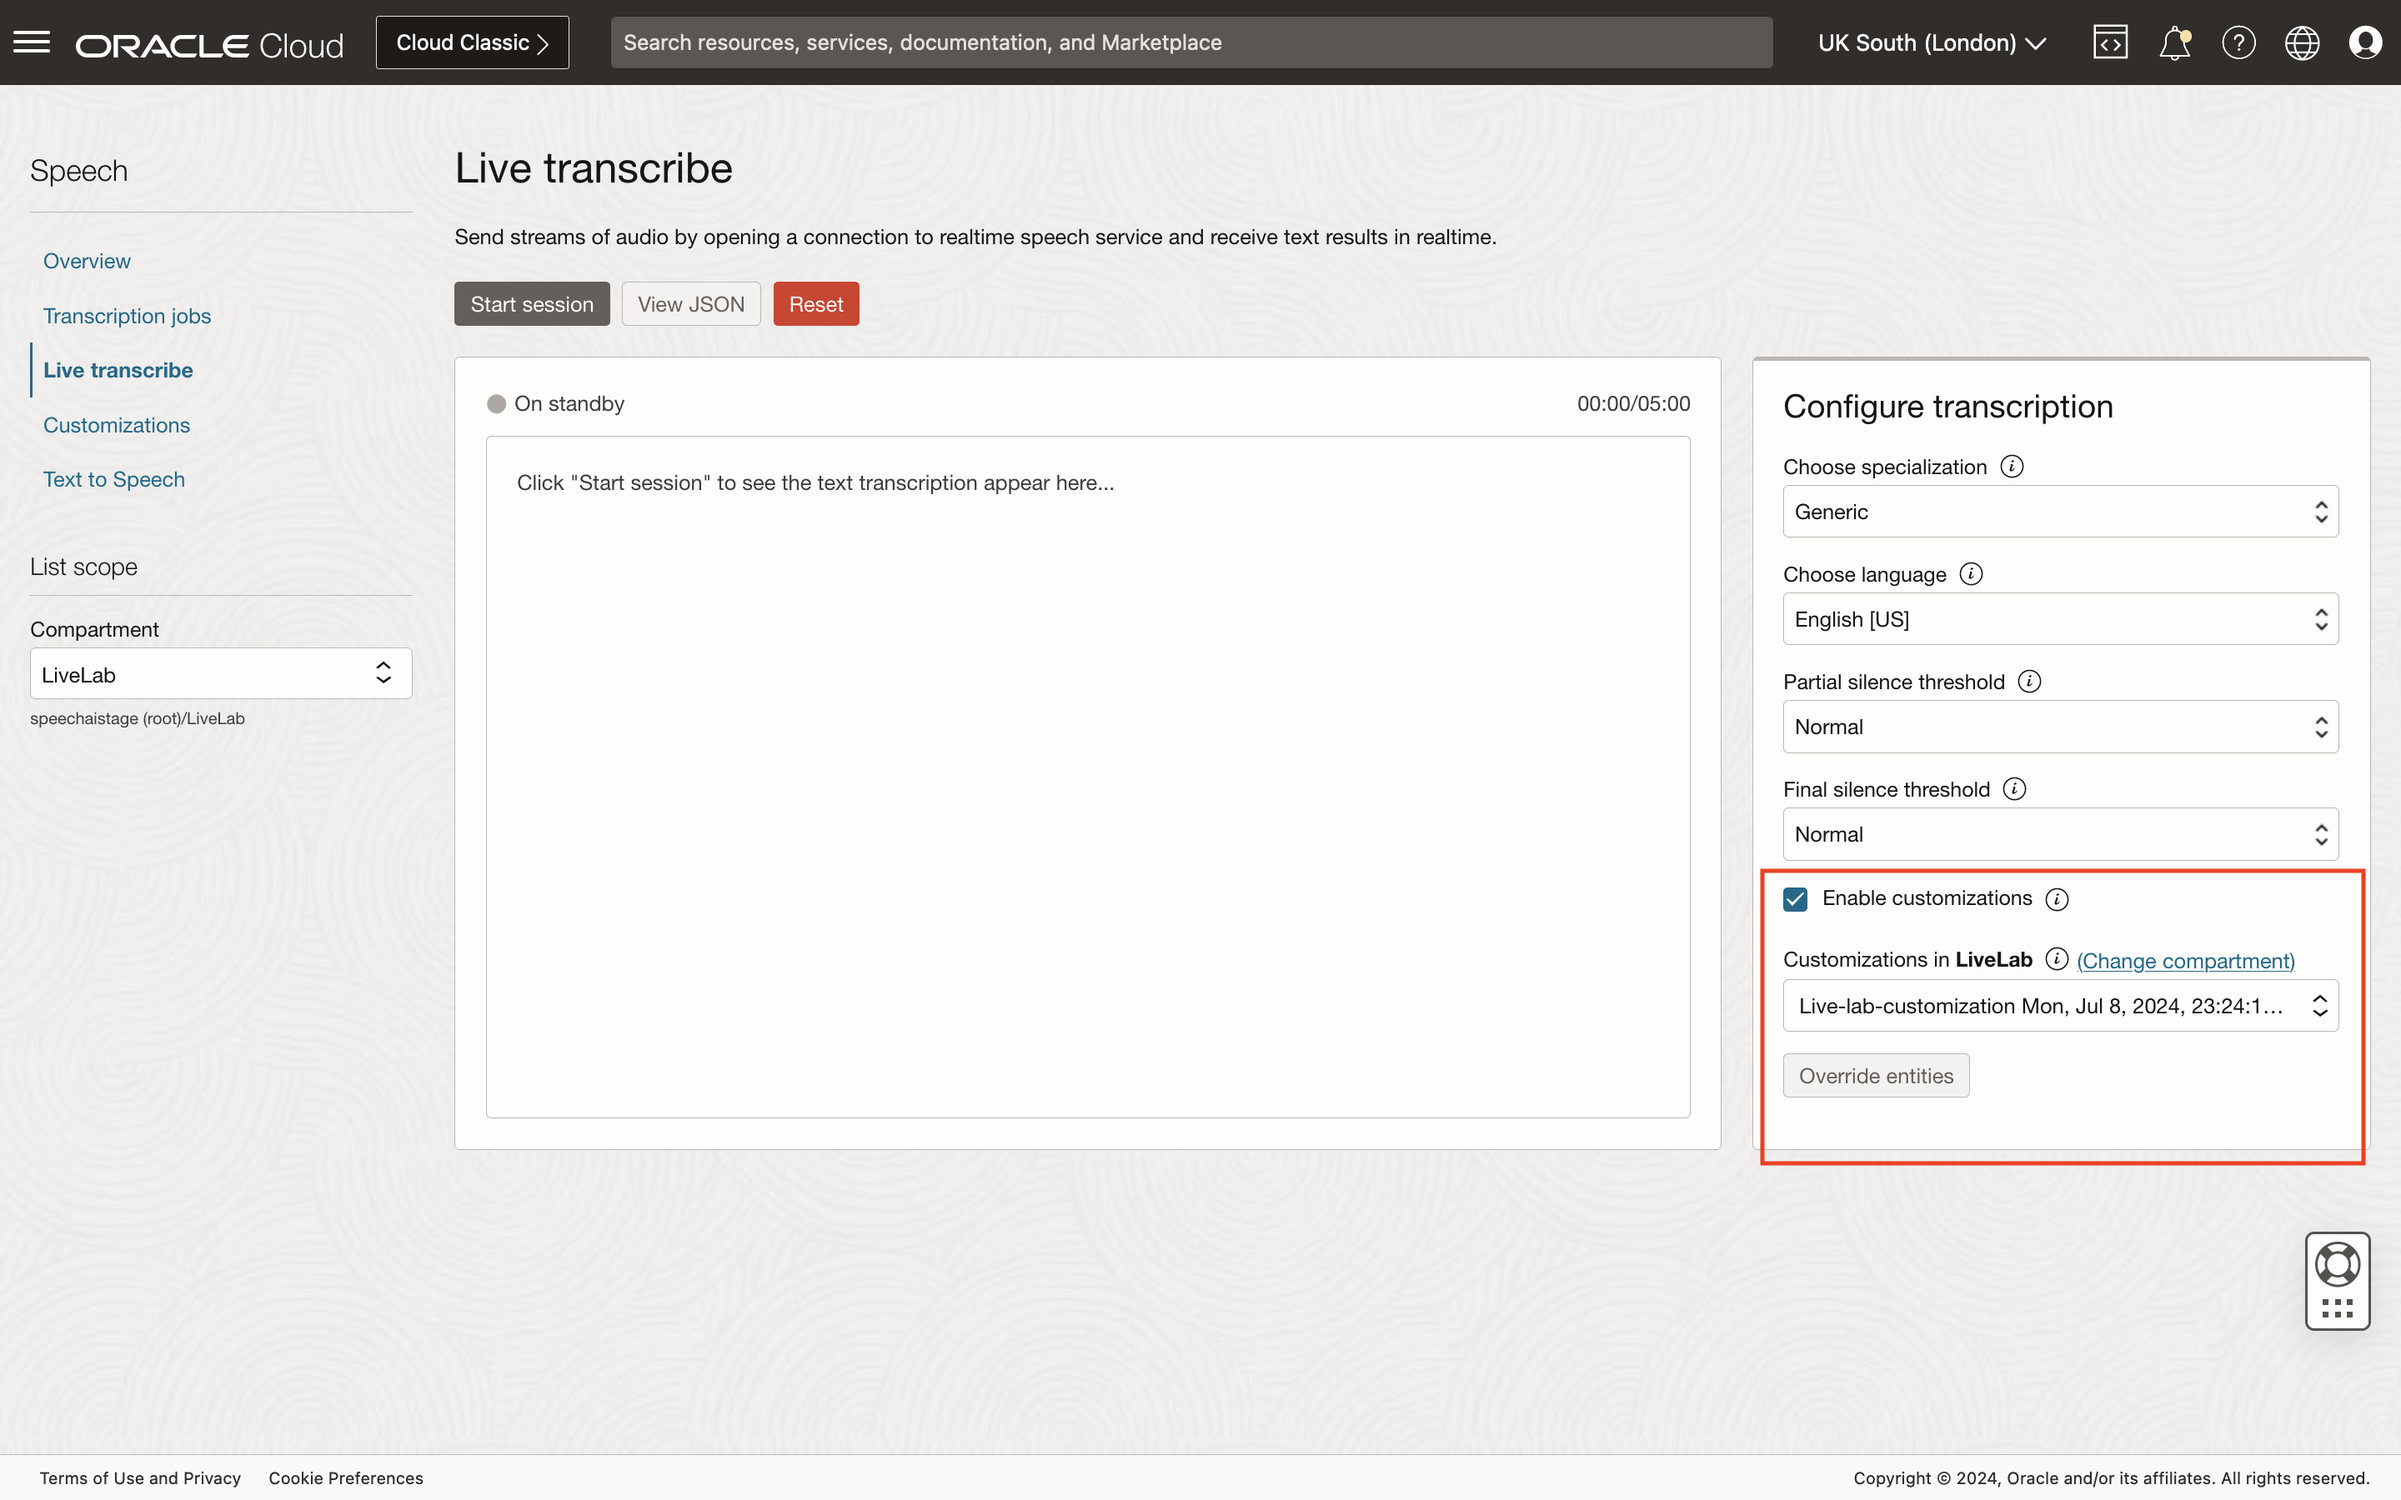
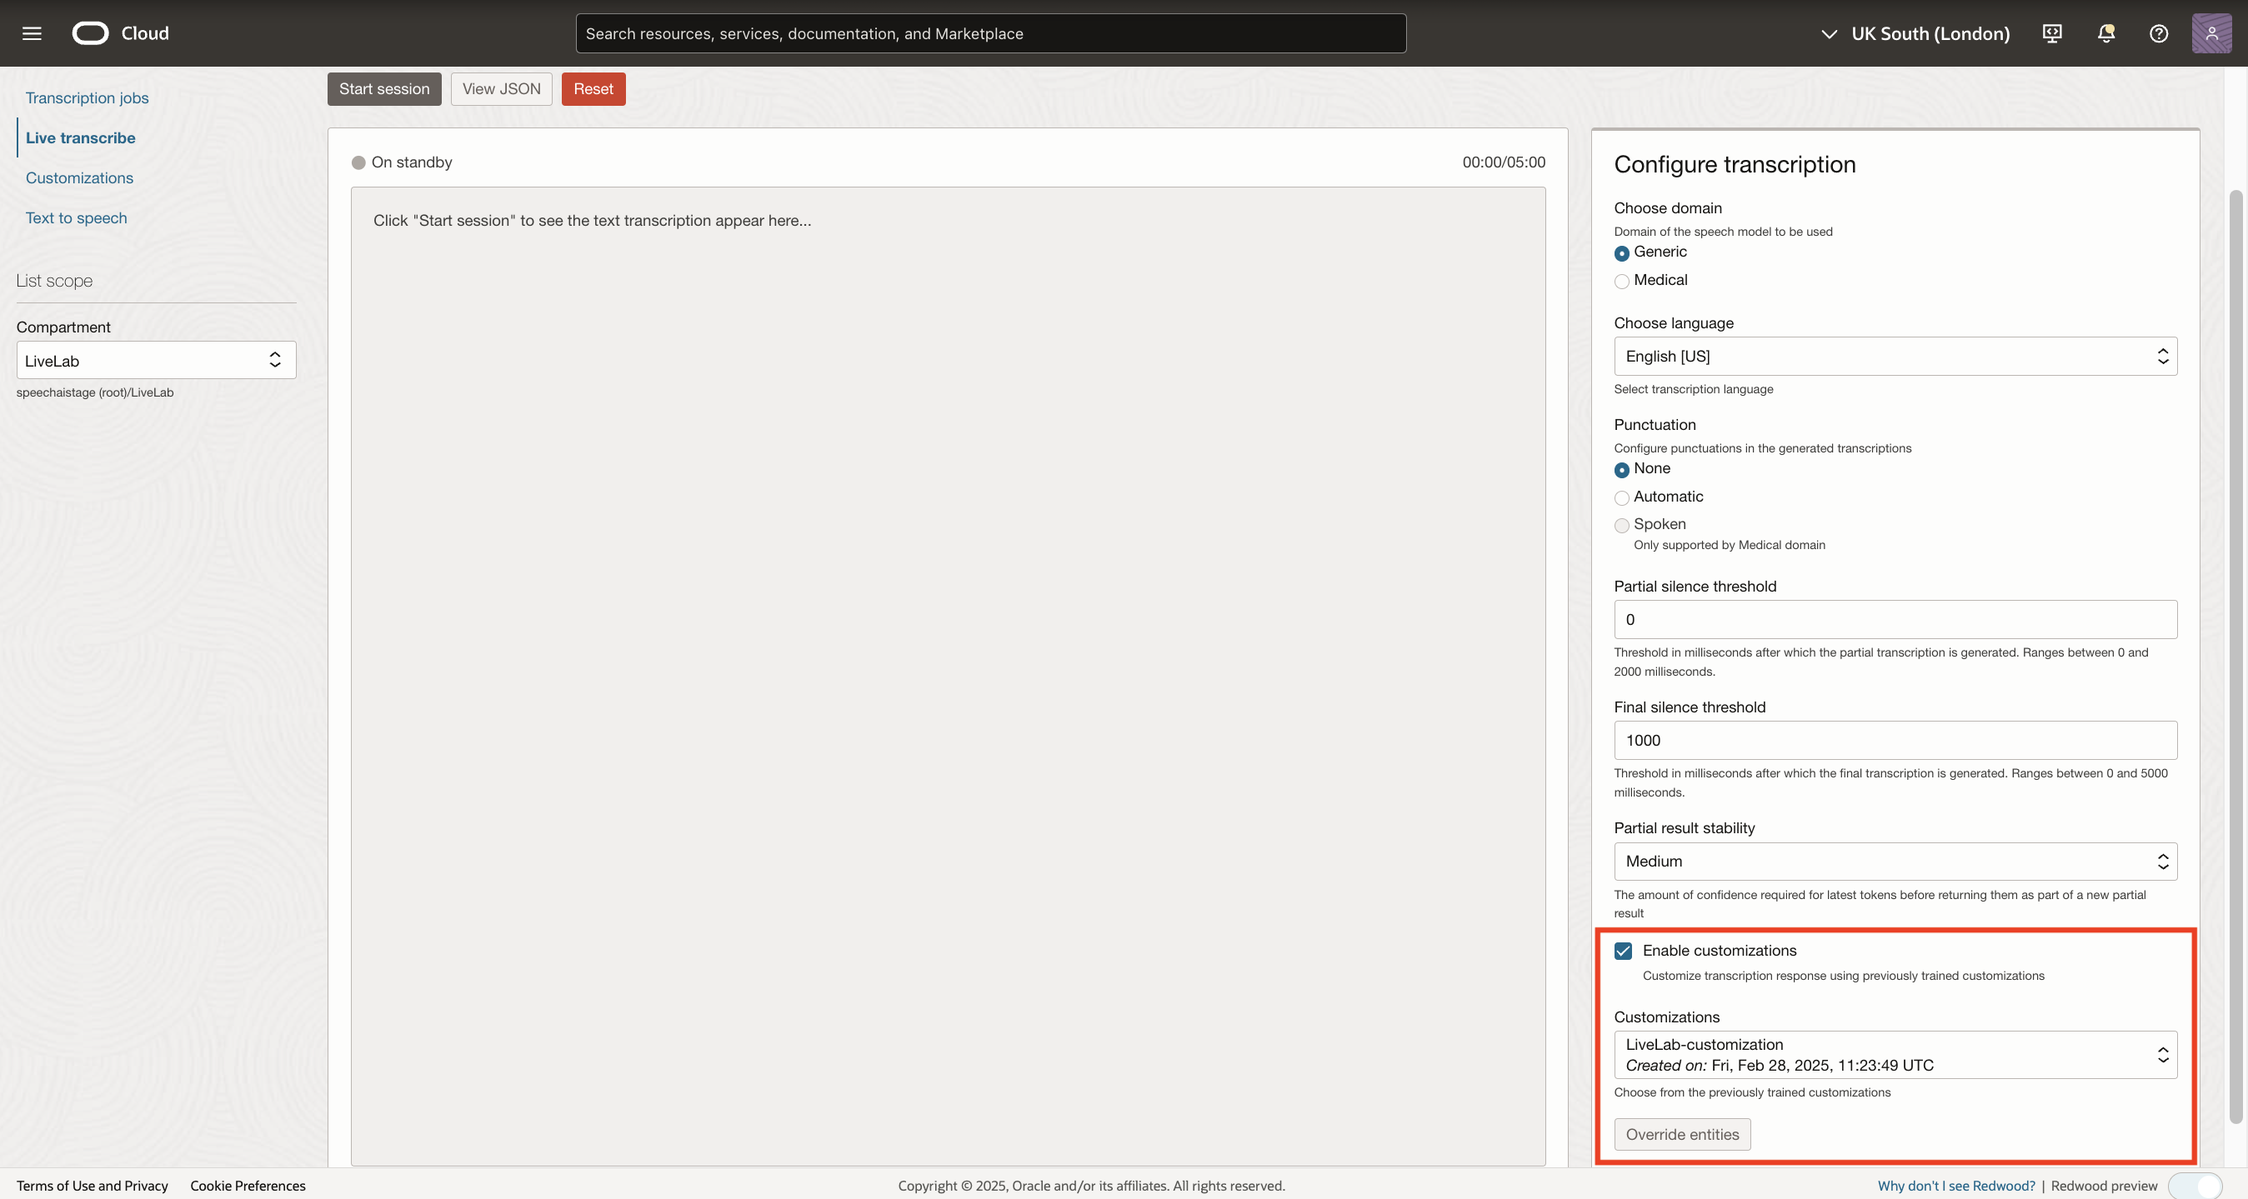
WMS ID 9001: Added some additional screenshots to reflect the current console version (#380)
* made changes for punctuation

* added required changed to the import methods

* updated the parameters

* Resolved issues with markdown files in livelabs demo

* modified screenshort for customization and added punctuation in list of features

diff --git a/oci-artificial-intelligence/ai-speech/transcribe-live-audio/transcribe-live-audio.md b/oci-artificial-intelligence/ai-speech/transcribe-live-audio/transcribe-live-audio.md
@@ -48,8 +48,7 @@ To change transcription parameters, look to the <strong>Configure transcription<
 
 1. Configure transcription
 
-    Here you can change parameters such as transcription model type, audio language, partial and final silence thresholds
-    and enable customizations
+    Here you can change parameters such as transcription model type, audio language, punctuation, partial and final silence thresholds partial results stability and enable customizations
         ![Configure transcription](./images/configure-transcription.png " ")
 
     <strong>Choose domain:</strong> Use this parameter to configure the transcription model for specialized audio, e.g. audio that features specific medial terminology
